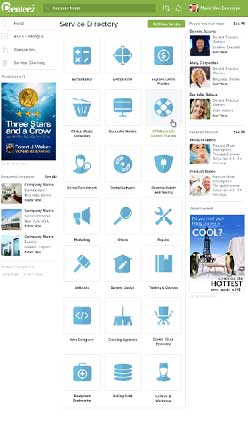
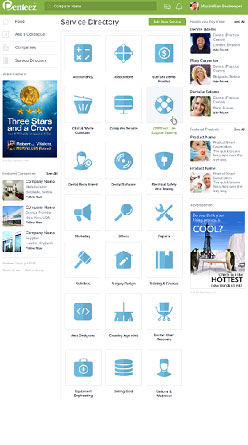
fixed menu

diff --git a/cv/css/style.css b/cv/css/style.css
@@ -520,7 +520,7 @@ footer a {
 .fa-bars:hover {
   color: #2ecc71; }
 
-@media only screen and (max-width: 800px) {
+@media only screen and (max-width: 850px) {
   /* line 480, D:/dz/tamtamlg.github.io/cv/css/style.scss */
   .main-menu {
     display: none;
@@ -531,6 +531,11 @@ footer a {
   /* line 487, D:/dz/tamtamlg.github.io/cv/css/style.scss */
   .fa-bars {
     display: block; } }
+
+@media only screen and (min-width: 851px) {
+  /* line 492, D:/dz/tamtamlg.github.io/cv/css/style.scss */
+  .main-menu {
+    display: block !important; } }
 
 /*menu collapse end*/
 

diff --git a/cv/css/style.scss b/cv/css/style.scss
@@ -476,7 +476,7 @@ footer a {
 .fa-bars:hover {
   color: #2ecc71;
 }
-@media only screen and (max-width : 800px) {
+@media only screen and (max-width : 850px) {
   .main-menu {
     display: none;
     border-top: 1px solid #fff;
@@ -486,6 +486,11 @@ footer a {
   }
   .fa-bars {
     display: block;
+  }
+}
+@media only screen and (min-width : 851px) {
+  .main-menu {
+    display: block !important;
   }
 }
 /*menu collapse end*/
